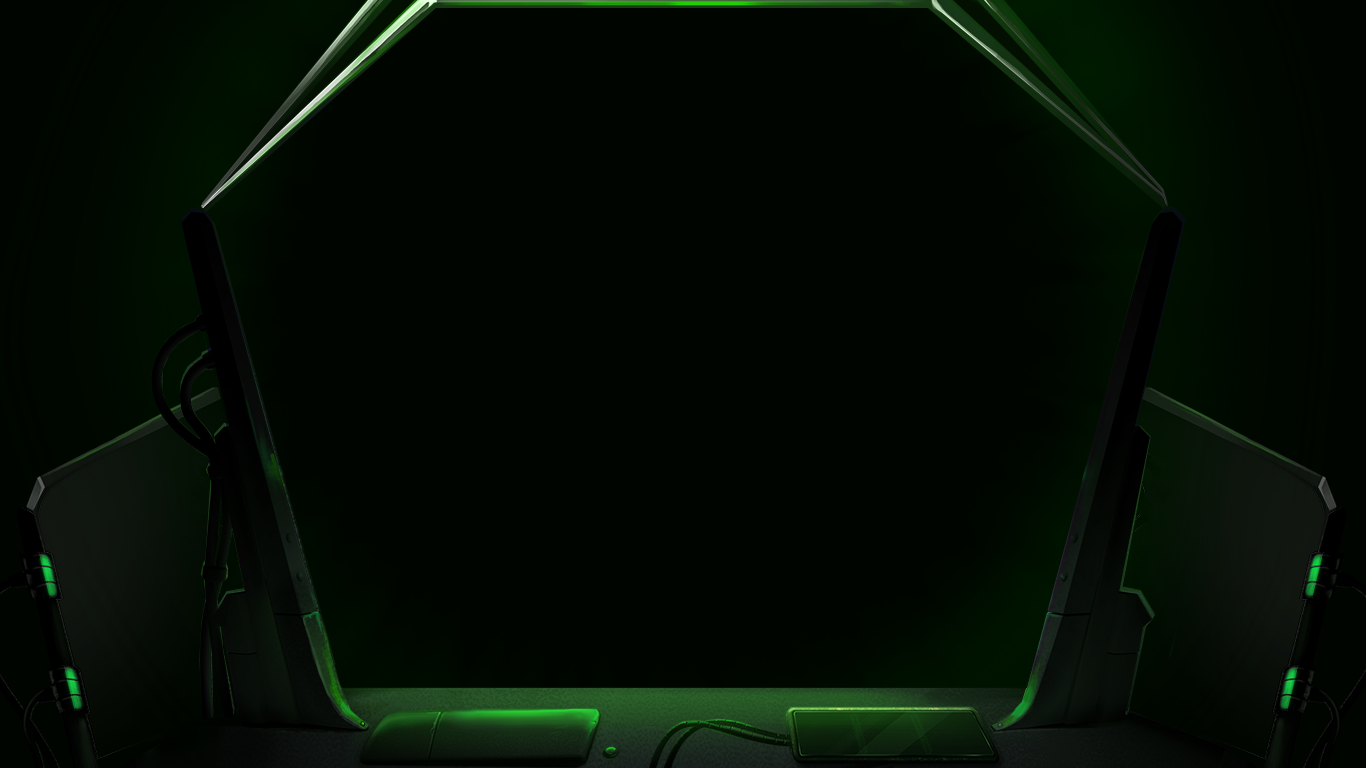
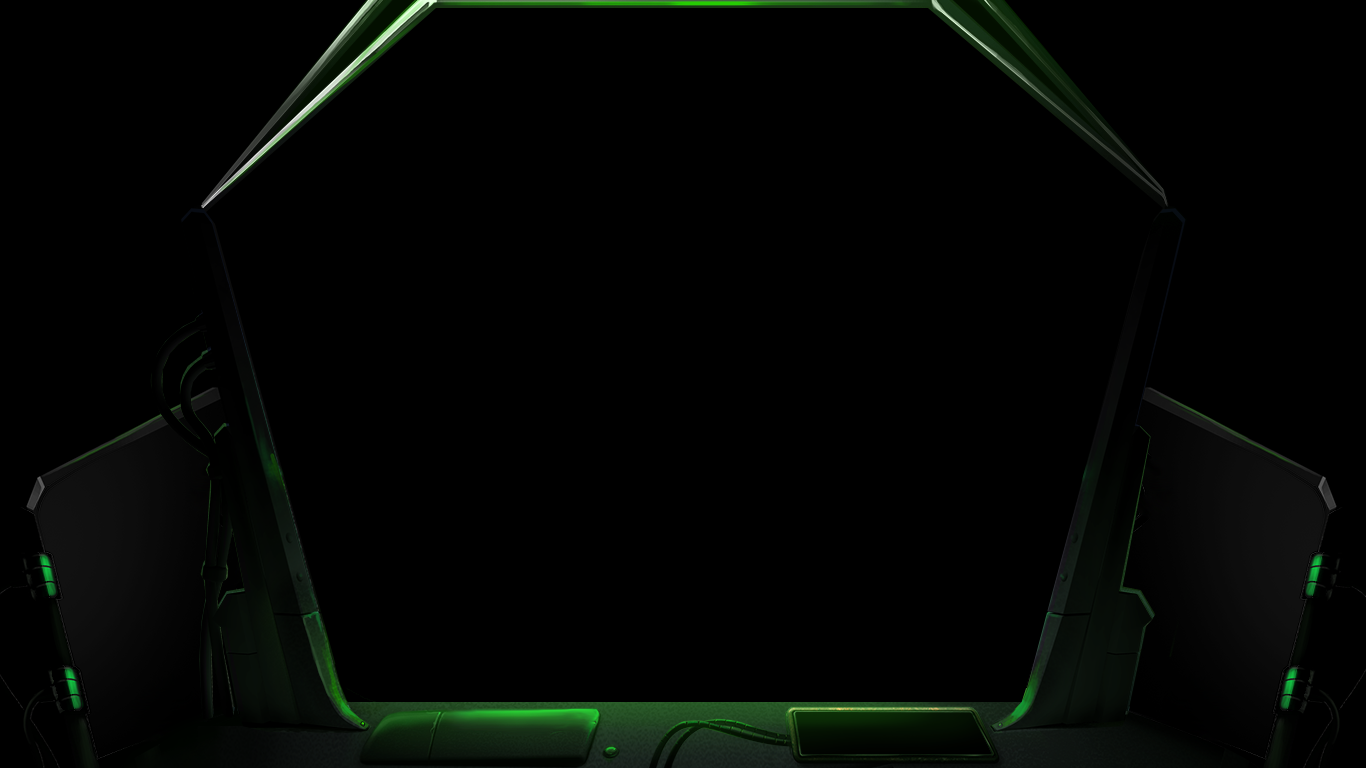
client: svg города на маленьком разрешении.

diff --git a/sublayers_server/model/messages.py b/sublayers_server/model/messages.py
@@ -655,7 +655,7 @@ class EnterToLocation(Message):
         if location_html is None:
             svg_link_common = os.path.join(options.static_path, 'content/locations/map_locations/common')
             svg_code_common = ''
-            with open(os.path.join(svg_link_common, 'location_back_big.svg')) as f:
+            with open(os.path.join(svg_link_common, 'location_back_small.svg')) as f:
                 svg_code_common = f.read()
                 svg_code_common = patch_svg_links(src=svg_code_common, pth='static/content/locations/map_locations/common/')
 
